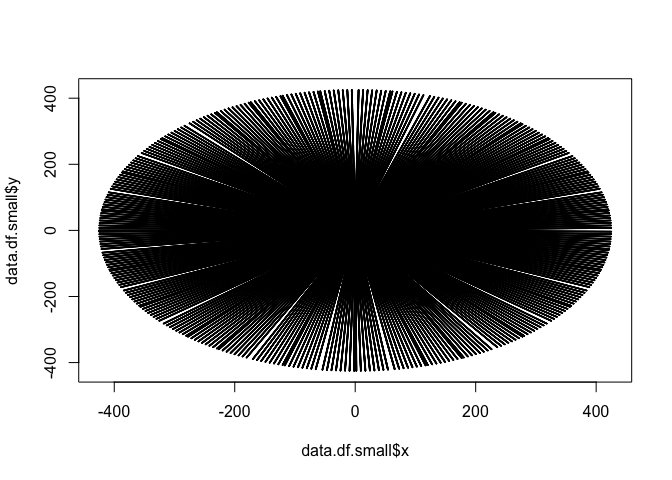
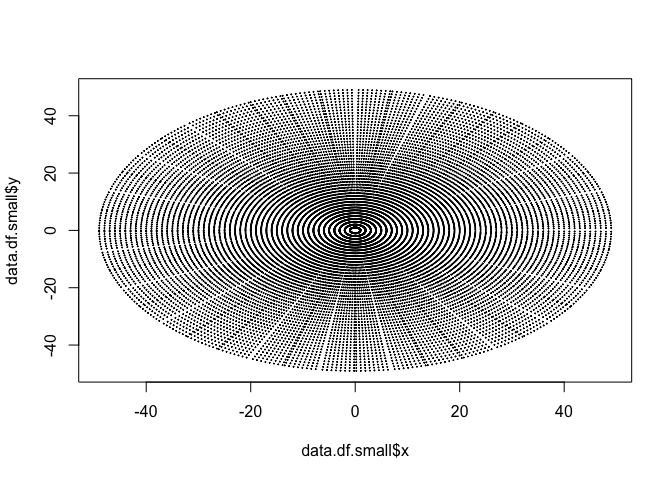
rhdf5++

diff --git a/rhdf5/README.md b/rhdf5/README.md
@@ -234,7 +234,7 @@ plot(data.df$long,data.df$lat,cex=0.1)
 data.df$value<-(data.df$value*0.1)-32
 
 # Make dataset smaller by removing points further than 5km from the radar
-data.df.small<-subset(data.df,data.df$radius<5000)
+data.df.small<-subset(data.df,data.df$radius<50)
 
 # Plot the smaller dataset
 plot(data.df.small$x,data.df.small$y,cex=0.1)
@@ -267,34 +267,39 @@ ggplot() +
 ![](README_files/figure-gfm/chris-code-4.png)<!-- -->
 
 ``` r
+# devtools::install_github("ATFutures/geoplumber")
+# install.packages(sf)
+# data.df.sample <- data.df[sample(nrow(data.df), 5e3),]
+# data.sf <- sf::st_as_sf(data.df.sample, coords=c("long", "lat"))
+# geoplumber::gp_map(data.sf)
+# lf <- geoplumber::gp_map(data.sf, browse_map = FALSE)
+# htmltools::includeHTML(lf)
+
+
 # Something a bit fancier based on Mapbox
 # Based on Robin's work https://geocompr.robinlovelace.net/adv-map.html
-library(mapdeck)
+# library(mapdeck)
 #set_token(TOKEN)
-ms = mapdeck_style("light")
-mapdeck(style = ms, pitch = 45, location = c(0, 52), zoom = 4) %>%
-add_pointcloud(
-  data = data.df, lat = "lat", lon = "long",
-  radius = 5,
-  fill_colour = "value",
-  palette = "viridis",
-  na_colour = "#808080FF",
-  legend = TRUE,
-  legend_options = NULL,
-  legend_format = NULL,
-  update_view = TRUE,
-  focus_layer = FALSE,
-  digits = 6,
-  transitions = NULL,
-  brush_radius = NULL
-)
+# ms = mapdeck_style("light")
+# mapdeck(style = ms, pitch = 45, location = c(0, 52), zoom = 4) %>%
+# add_pointcloud(
+#   data = data.df, lat = "lat", lon = "long",
+#   radius = 5,
+#   fill_colour = "value",
+#   palette = "viridis",
+#   na_colour = "#808080FF",
+#   legend = TRUE,
+#   legend_options = NULL,
+#   legend_format = NULL,
+#   update_view = TRUE,
+#   focus_layer = FALSE,
+#   digits = 6,
+#   transitions = NULL,
+#   brush_radius = NULL
+# )
 ```
 
-    ## Registered S3 method overwritten by 'jsonlite':
-    ##   method     from   
-    ##   print.json jsonify
-
-![](README_files/figure-gfm/chris-code-5.png)<!-- --> \#\# hdf5r
+## hdf5r
 
 ``` r
 library(rhdf5)
